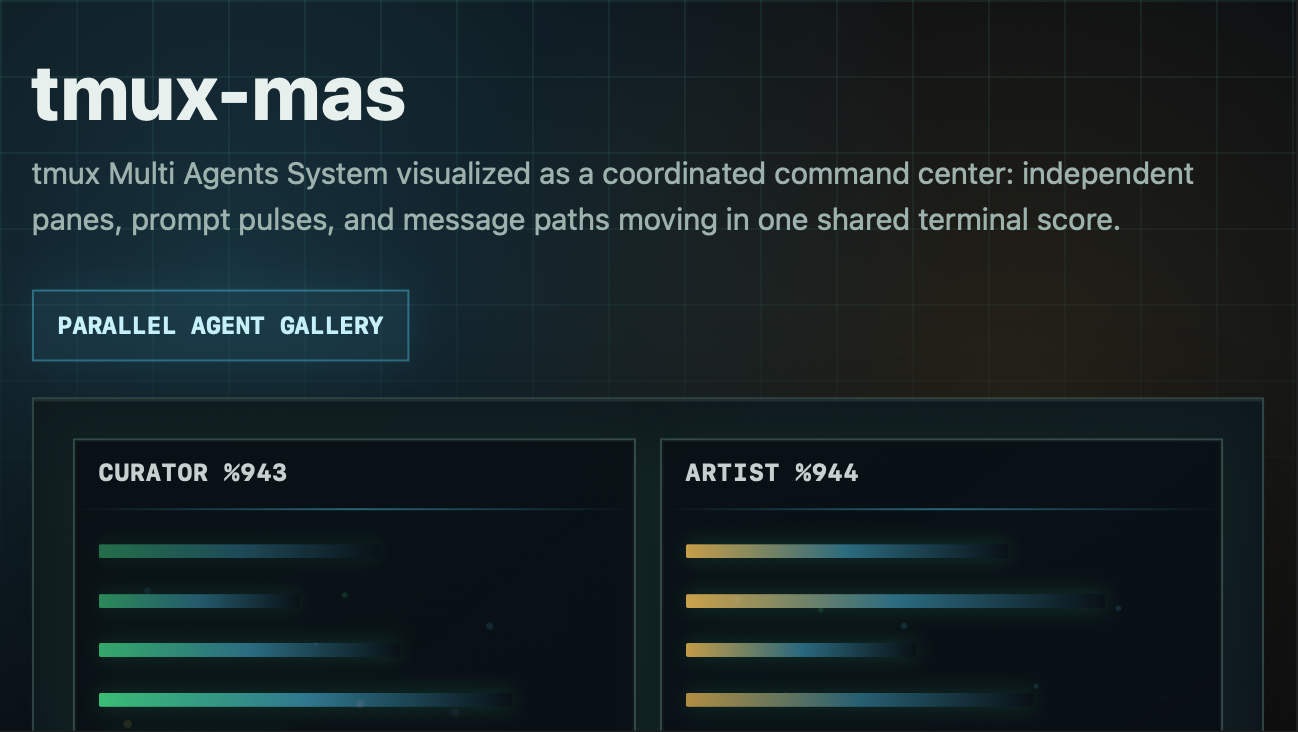
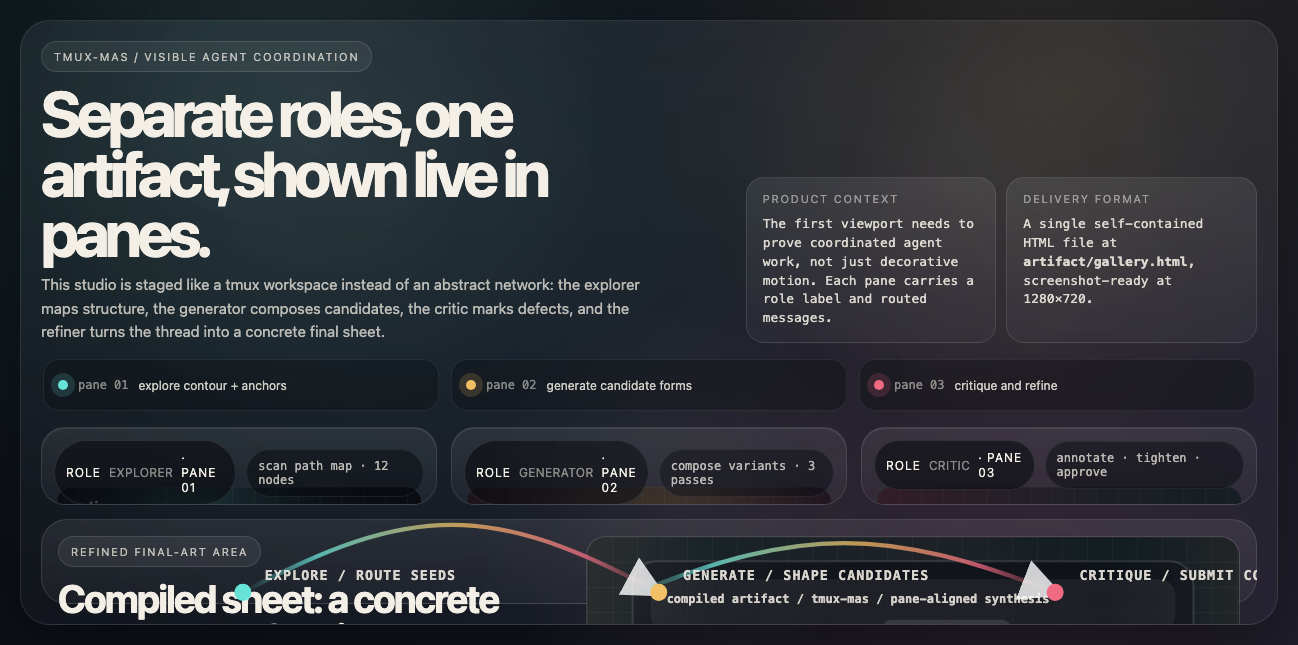
Fix README comparison rendering

diff --git a/README.md b/README.md
@@ -68,9 +68,16 @@ not the story around it.
 
 ### 1. Landing Page
 
-| Baseline | tmux-mas run |
-| --- | --- |
-| ![Before: single-agent landing page artifact](assets/readme/landing-without.png) | ![After: tmux-mas landing page artifact](assets/readme/landing-with.png) |
+<table>
+  <tr>
+    <th width="50%">Baseline</th>
+    <th width="50%"><code>tmux-mas run</code></th>
+  </tr>
+  <tr>
+    <td width="50%"><img src="assets/readme/landing-without.png" alt="Before: single-agent landing page artifact"></td>
+    <td width="50%"><img src="assets/readme/landing-with.png" alt="After: tmux-mas landing page artifact"></td>
+  </tr>
+</table>
 
 What to compare: the team output is more product-specific, with a clearer
 terminal-native visual signal and less generic SaaS framing.
@@ -83,9 +90,16 @@ Scenario: [`landing-page.yml`](scenarios/landing-page.yml)
 
 ### 2. Generative Art Studio
 
-| Baseline | tmux-mas run |
-| --- | --- |
-| ![Before: single-agent generative art artifact](assets/readme/art-without.png) | ![After: tmux-mas generative art artifact](assets/readme/art-with.png) |
+<table>
+  <tr>
+    <th width="50%">Baseline</th>
+    <th width="50%"><code>tmux-mas run</code></th>
+  </tr>
+  <tr>
+    <td width="50%"><img src="assets/readme/art-without.png" alt="Before: single-agent generative art artifact"></td>
+    <td width="50%"><img src="assets/readme/art-with.png" alt="After: tmux-mas generative art artifact"></td>
+  </tr>
+</table>
 
 What to compare: the team output organizes the prompt into explicit panes,
 roles, and message paths instead of a looser abstract network.
@@ -105,9 +119,16 @@ Scenario: [`generative-art-studio-codex.yml`](scenarios/generative-art-studio-co
 
 ### 3. Travel Itinerary as a Print-Ready PDF Source
 
-| Baseline | tmux-mas run |
-| --- | --- |
-| ![Before: single-agent travel itinerary artifact](assets/readme/travel-without.png) | ![After: tmux-mas travel itinerary artifact](assets/readme/travel-with.png) |
+<table>
+  <tr>
+    <th width="50%">Baseline</th>
+    <th width="50%"><code>tmux-mas run</code></th>
+  </tr>
+  <tr>
+    <td width="50%"><img src="assets/readme/travel-without.png" alt="Before: single-agent travel itinerary artifact"></td>
+    <td width="50%"><img src="assets/readme/travel-with.png" alt="After: tmux-mas travel itinerary artifact"></td>
+  </tr>
+</table>
 
 What to compare: the team output foregrounds trip logic and constraints before
 the daily plan, making the itinerary easier to audit.